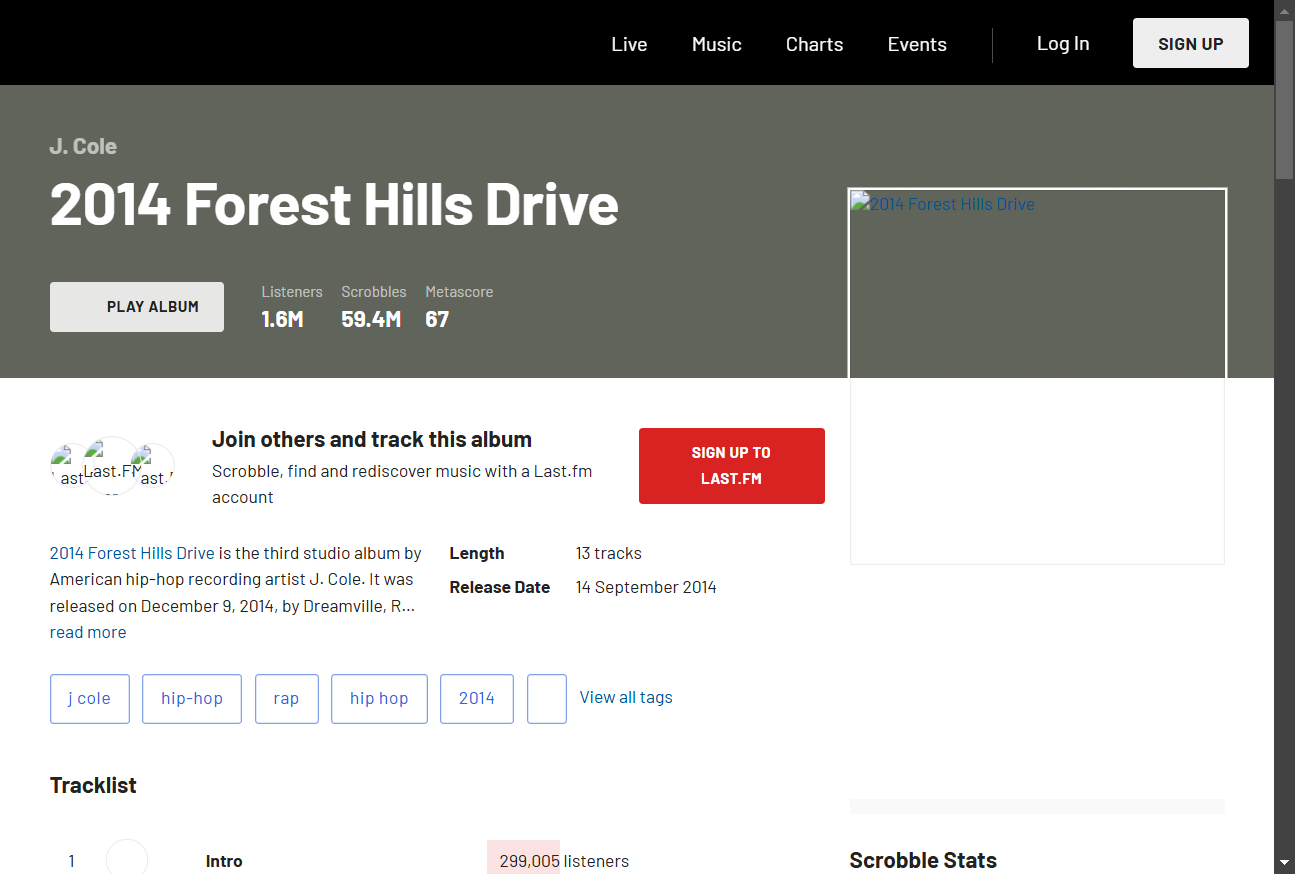
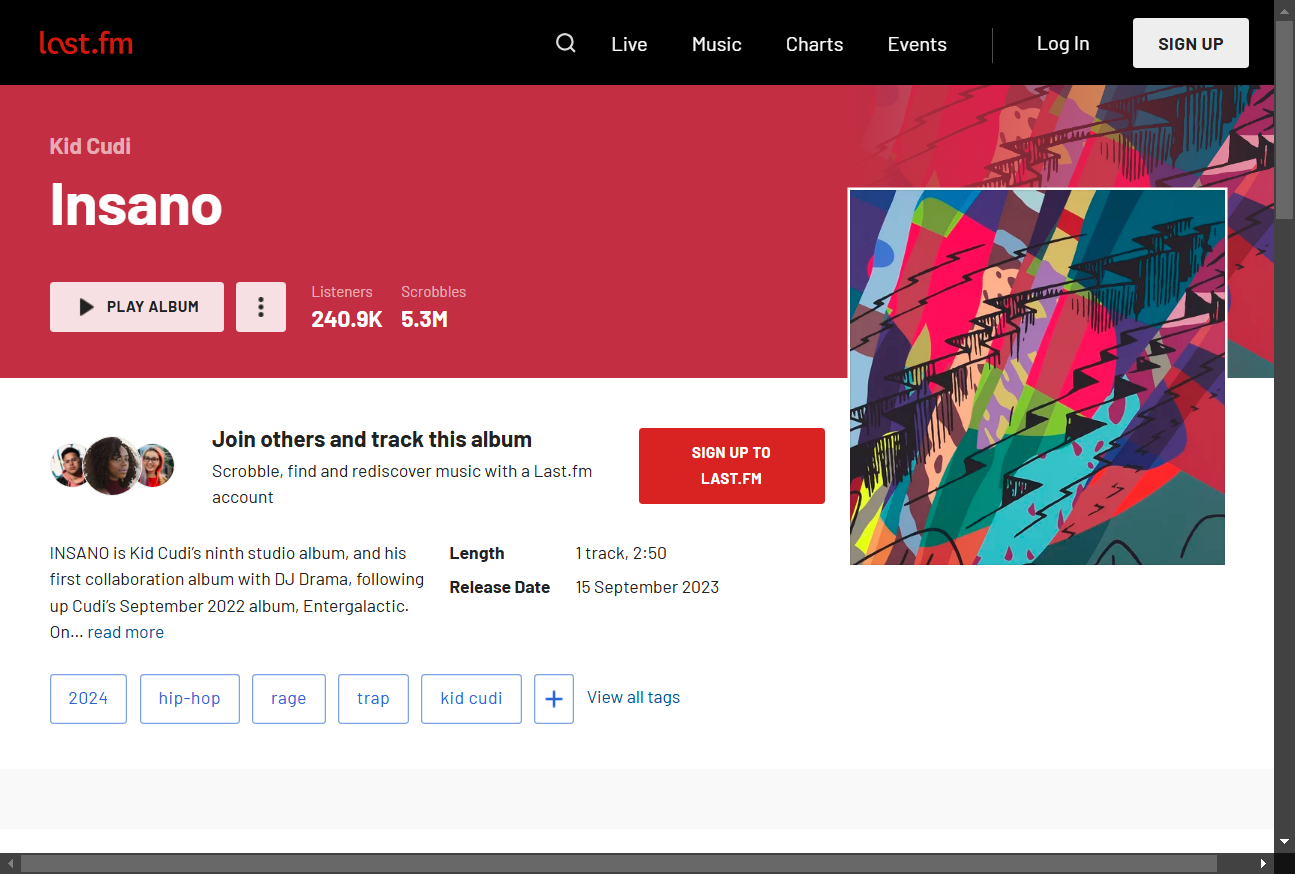
testing to resolve timeout errors

diff --git a/test.py b/test.py
@@ -1,9 +1,58 @@
-f = open('album_list.txt', 'r')
+from selenium import webdriver
+from selenium.webdriver.common.by import By
+from selenium.webdriver.support.ui import WebDriverWait
+from selenium.webdriver.support import expected_conditions as EC
 
-for i  in f.readlines()[15:21]:
-    list = []
-    list.append(i)
+
+def webdriver_init():
+        
+    options = webdriver.ChromeOptions()
+    # options.add_argument('--headless=new')
+    options.add_argument("--disable-extensions")
+    options.add_argument("--disable-features=UseChromeML")
+    options.add_argument("--disable-gpu")
+    options.add_argument("--no-sandbox")
+    # options.add_argument("disable-accelerated-2d-canvas")
+    # options.add_argument("--disable-software-rasterizer")  
+    # options.add_argument("--disable-dev-shm-usage")
+      
+    # options.add_experimental_option('prefs', {'profile.managed_default_content_settings.images': 2,
+    #                                       'profile.managed_default_content_settings.javascript': 2})
+
+    driver = webdriver.Chrome(options=options)
     
-    print(list)
+    driver.get('https://www.last.fm/search/albums')
     
-lst = []
+    return driver
+
+def hello(driver, album):
+    
+    search_bar = WebDriverWait(driver, 10).until(EC.presence_of_element_located((By.ID, 'site-search')))
+    search_bar.click()
+    
+    search_bar.send_keys(album)
+    search_bar.submit()
+    
+    right_tab = WebDriverWait(driver, 10).until(EC.presence_of_element_located((By.XPATH, '//*[@id="mantle_skin"]/div[2]/div/div[3]/nav/ul/li[3]/a')))
+    right_tab.click()
+    
+    album = WebDriverWait(driver, 10).until(EC.presence_of_element_located((By.PARTIAL_LINK_TEXT, album)))
+    album.click()
+
+    WebDriverWait(driver, 10).until(EC.presence_of_element_located((By.CLASS_NAME, 'header-new-title')))
+    html = driver.page_source
+    driver.save_screenshot('album_page.png')
+    
+    reset = WebDriverWait(driver, 10).until(EC.presence_of_element_located((By.LINK_TEXT, 'Last.fm')))
+    reset.click()
+    return_to_search = WebDriverWait(driver, 10).until(EC.presence_of_element_located((By.CLASS_NAME, 'masthead-search-toggle')))
+    return_to_search.click()
+    
+    return html
+
+album = ['Insano', 'Blonde', 'Continuum', 'Room for Squares', 'Heavier Things']
+
+hi = webdriver_init()
+
+for i in album:
+    hello(hi, i)
